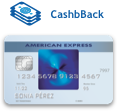
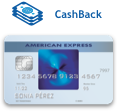
Corregido Typo en Casback

Changed region(s): [[0.0769, 0.0, 0.3846, 0.2432], [0.4359, 0.0811, 0.8974, 0.1622]]

diff --git a/src/pages/notificaciones/003.HTML b/src/pages/notificaciones/003.HTML
@@ -1,0 +1,207 @@
+<!DOCTYPE html PUBLIC "-//W3C//DTD XHTML 1.0 Strict//EN" "http://www.w3.org/TR/xhtml1/DTD/xhtml1-strict.dtd">
+<html xmlns="http://www.w3.org/1999/xhtml">
+  <head>
+    <meta http-equiv="Content-Type" content="text/html; charset=utf-8">
+    <meta name="viewport" content="width=device-width">
+    <style>
+@media only screen and (max-width:517.24138px) {
+  table[class="body"] img {
+    width: auto !important;
+    height: auto !important;
+  }
+  table[class="body"] center {
+    min-width: 0 !important;
+  }
+  table[class="body"] .container {
+    width: 95% !important;
+  }
+  table[class="body"] .row {
+    width: 100% !important;
+    display: block !important;
+  }
+  table[class="body"] .wrapper {
+    display: block !important;
+    padding-right: 0 !important;
+  }
+  table[class="body"] .columns,table[class="body"] .column {
+    table-layout: fixed !important;
+    float: none !important;
+    width: 100% !important;
+    padding-right: 0 !important;
+    padding-left: 0 !important;
+    display: block !important;
+  }
+  table[class="body"] .wrapper.first .columns,table[class="body"] .wrapper.first .column {
+    display: table !important;
+  }
+  table[class="body"] table.columns td,table[class="body"] table.column td {
+    width: 100% !important;
+  }
+  table[class="body"] .columns td.one,table[class="body"] .column td.one {
+    width: 8.33333% !important;
+  }
+  table[class="body"] .columns td.two,table[class="body"] .column td.two {
+    width: 16.66667% !important;
+  }
+  table[class="body"] .columns td.three,table[class="body"] .column td.three {
+    width: 25% !important;
+  }
+  table[class="body"] .columns td.four,table[class="body"] .column td.four {
+    width: 33.33333% !important;
+  }
+  table[class="body"] .columns td.five,table[class="body"] .column td.five {
+    width: 41.66667% !important;
+  }
+  table[class="body"] .columns td.six,table[class="body"] .column td.six {
+    width: 50% !important;
+  }
+  table[class="body"] .columns td.seven,table[class="body"] .column td.seven {
+    width: 58.33333% !important;
+  }
+  table[class="body"] .columns td.eight,table[class="body"] .column td.eight {
+    width: 66.66667% !important;
+  }
+  table[class="body"] .columns td.nine,table[class="body"] .column td.nine {
+    width: 75% !important;
+  }
+  table[class="body"] .columns td.ten,table[class="body"] .column td.ten {
+    width: 83.33333% !important;
+  }
+  table[class="body"] .columns td.eleven,table[class="body"] .column td.eleven {
+    width: 91.66667% !important;
+  }
+  table[class="body"] .columns td.twelve,table[class="body"] .column td.twelve {
+    width: 100% !important;
+  }
+  table[class="body"] td.offset-by-one,table[class="body"] td.offset-by-two,table[class="body"] td.offset-by-three,table[class="body"] td.offset-by-four,table[class="body"] td.offset-by-five,table[class="body"] td.offset-by-six,table[class="body"] td.offset-by-seven,table[class="body"] td.offset-by-eight,table[class="body"] td.offset-by-nine,table[class="body"] td.offset-by-ten,table[class="body"] td.offset-by-eleven {
+    padding-left: 0 !important;
+  }
+  table[class="body"] table.columns td.expander {
+    width: 1px !important;
+  }
+  table[class="body"] .right-text-pad,table[class="body"] .text-pad-right {
+    padding-left: 10px !important;
+  }
+  table[class="body"] .left-text-pad,table[class="body"] .text-pad-left {
+    padding-right: 10px !important;
+  }
+  table[class="body"] .hide-for-small,table[class="body"] .show-for-desktop {
+    display: none !important;
+  }
+  table[class="body"] .show-for-small,table[class="body"] .hide-for-desktop {
+    display: inherit !important;
+  }
+}
+</style>
+  </head>
+  <body style="-ms-text-size-adjust: 100%; -webkit-text-size-adjust: 100%; background: #F1F1F1; color: #222; font-family: Helvetica,Arial,sans-serif; font-size: 14px; font-weight: 400; line-height: 19px; margin: 0; min-width: 100%; padding: 0; text-align: left; width: 100%;">
+    <table class="body" style="border-collapse: collapse; border-spacing: 0; color: #222; font-family: Helvetica,Arial,sans-serif; font-size: 14px; font-weight: 400; height: 100%; line-height: 19px; margin: 0; padding: 0; text-align: left; vertical-align: top; width: 100%;">
+      <tr style="padding: 0; text-align: left; vertical-align: top;">
+        <td align="center" valign="top" class="center" style="-moz-hyphens: auto; -webkit-hyphens: auto; border-collapse: collapse; color: #222; font-family: Helvetica,Arial,sans-serif; font-size: 14px; font-weight: 400; hyphens: auto; line-height: 19px; margin: 0; padding: 0; text-align: center; vertical-align: top; word-break: break-word;">
+          <center style="min-width: 500px; width: 100%;">
+            <table class="row header" style="border-collapse: collapse; border-spacing: 0; padding: 0; position: relative; text-align: left; vertical-align: top; width: 100%;">
+              <tr style="padding: 0; text-align: left; vertical-align: top;">
+                <td align="center" class="center" style="-moz-hyphens: auto; -webkit-hyphens: auto; border-collapse: collapse; color: #222; font-family: Helvetica,Arial,sans-serif; font-size: 14px; font-weight: 400; hyphens: auto; line-height: 19px; margin: 0; padding: 0; text-align: center; vertical-align: top; word-break: break-word;">
+                  <center style="min-width: 500px; width: 100%;">
+                    <table class="container" style="border-collapse: collapse; border-spacing: 0; margin: 0 auto; padding: 0; text-align: inherit; vertical-align: top; width: 500px;">
+                      <tr style="padding: 0; text-align: left; vertical-align: top;">
+                        <td class="wrapper last" style="-moz-hyphens: auto; -webkit-hyphens: auto; border-collapse: collapse; color: #222; font-family: Helvetica,Arial,sans-serif; font-size: 14px; font-weight: 400; hyphens: auto; line-height: 19px; margin: 0; padding: 10px 20px 0 0; padding-right: 0; position: relative; text-align: left; vertical-align: top; word-break: break-word;">
+                          <table class="twelve columns" style="border-collapse: collapse; border-spacing: 0; margin: 0 auto; padding: 0; text-align: left; vertical-align: top; width: 500px;">
+                            <tr style="padding: 0; text-align: left; vertical-align: top;">
+                              <td class="subjectline" style="-moz-hyphens: auto; -webkit-hyphens: auto; border-collapse: collapse; color: #222; font-family: Helvetica,Arial,sans-serif; font-size: 14px; font-weight: 400; hyphens: auto; line-height: 19px; margin: 0; padding: 0 0 10px; padding-bottom: 3px; text-align: left; vertical-align: top; word-break: break-word;">
+                                <p style="color: #6D6E71; font-family: Helvetica,Arial,sans-serif; font-size: 10px; font-weight: 400; line-height: 19px; margin: 0; margin-bottom: 0; padding: 0; text-align: left;">Requerimos de su ayuda</p>
+                              </td>
+                            </tr>
+                          </table>
+                        </td>
+                      </tr>
+                    </table>
+                  </center>
+                </td>
+              </tr>
+            </table>
+            <table style="border-collapse: collapse; border-spacing: 0; padding: 0; text-align: left; vertical-align: top;"></table>
+            <!-- Email content-->
+            <table class="wrapper header" style="border-collapse: collapse; border-spacing: 0; padding: 0; text-align: left; vertical-align: top;">
+              <tbody>
+                <tr style="padding: 0; text-align: left; vertical-align: top;">
+                  <td class="wrapper-inner" style="-moz-hyphens: auto; -webkit-hyphens: auto; border-collapse: collapse; color: #222; font-family: Helvetica,Arial,sans-serif; font-size: 14px; font-weight: 400; hyphens: auto; line-height: 19px; margin: 0; padding: 0; text-align: left; vertical-align: top; word-break: break-word;">
+                    <!-- content start-->
+                    <table class="row headerbox" style="background: #394457; border-collapse: collapse; border-spacing: 0; padding: 0; position: relative; text-align: left; vertical-align: top; width: 100%;">
+                      <tr style="padding: 0; text-align: left; vertical-align: top;">
+                        <td style="-moz-hyphens: auto; -webkit-hyphens: auto; border-collapse: collapse; color: #222; font-family: Helvetica,Arial,sans-serif; font-size: 14px; font-weight: 400; hyphens: auto; line-height: 19px; margin: 0; padding: 40px; text-align: left; vertical-align: top; word-break: break-word;">
+                          <table class="twelve columns first last" style="border-collapse: collapse; border-spacing: 0; margin: 0 auto; padding: 0; text-align: left; vertical-align: top; width: 500px;">
+                            <tr style="padding: 0; text-align: left; vertical-align: top;">
+                              <th class="mainlogo" style="padding-bottom: 15px;">
+                                <p style="color: #fff; font-family: Helvetica,Arial,sans-serif; font-size: 14px; font-weight: 400; line-height: 19px; margin: 0; margin-bottom: 10px; padding: 0; text-align: left;"><img src="https://content.baccredomatic.com/es-cr/mailing/com/is16/logo-white-bg.png" alt="Bac Credomatic" style="-ms-interpolation-mode: bicubic; clear: both; display: block; float: left; max-width: 100%; outline: none; text-decoration: none; width: auto;"></p>
+                              </th>
+                            </tr>
+                            <tr style="padding: 0; text-align: left; vertical-align: top;">
+                              <th>
+                                <p class="saludo" style="color: #fff; font-family: Helvetica,Arial,sans-serif; font-size: 20px; font-weight: 400; line-height: 19px; margin: 0; margin-bottom: 5px; padding: 0; text-align: left;">Hola  [Opportunity.Key Contact First Name] [Opportunity.Key Contact Last Name]</p>
+                                <h1 style="color: #fff; font-family: Helvetica,Arial,sans-serif; font-size: 30px; font-weight: 400; line-height: 1.3; margin: 0; padding: 0; text-align: left; word-break: normal;">Requerimos de su ayuda</h1>
+                                <p class="oportunidad" style="color: #fff; font-family: Helvetica,Arial,sans-serif; font-size: 14px; font-weight: 400; line-height: 19px; margin: 0; margin-bottom: 10px; margin-top: 10px; padding: 0; text-align: left;">Número de solicitud: [Opportunity.Row Id]</p>
+                              </th>
+                              <th class="expander"></th>
+                            </tr>
+                          </table>
+                        </td>
+                      </tr>
+                    </table>
+                    <table class="row contentbox" style="background: #fff; border-bottom: solid 2px #9A877A; border-collapse: collapse; border-spacing: 0; padding: 0; position: relative; text-align: left; vertical-align: top; width: 100%;">
+                      <tr style="padding: 0; text-align: left; vertical-align: top;">
+                        <td style="-moz-hyphens: auto; -webkit-hyphens: auto; border-collapse: collapse; color: #222; font-family: Helvetica,Arial,sans-serif; font-size: 14px; font-weight: 400; hyphens: auto; line-height: 19px; margin: 0; padding: 0; text-align: left; vertical-align: top; word-break: break-word;">
+                          <table class="twelve columns" style="border-collapse: collapse; border-spacing: 0; margin: 0 auto; padding: 0; text-align: left; vertical-align: top; width: 500px;">
+                            <tr style="padding: 0; text-align: left; vertical-align: top;">
+                              <td class="mailbody" style="-moz-hyphens: auto; -webkit-hyphens: auto; border-collapse: collapse; color: #222; font-family: Helvetica,Arial,sans-serif; font-size: 14px; font-weight: 400; hyphens: auto; line-height: 19px; margin: 0; padding: 30px 0; text-align: left; vertical-align: top; word-break: break-word;">
+                                <p style="color: #222; font-family: Helvetica,Arial,sans-serif; font-size: 14px; font-weight: 400; line-height: 19px; margin: 0; margin-bottom: 10px; padding: 0; text-align: left;">Ya tenemos todos sus datos y estamos procesando su solicitud. Para poder continuar con el proceso, requerimos la siguiente información:
+                                  <ol>
+                                    <li>Imagen escaneada de su cédula por los 2 lados</li>
+                                    <li>Imagen escaneada de constancia de ingresos, según aplique:
+                                      <br/>• Si es asalariado, su orden patronal
+                                      <br/>• Si es independiente, CPA tramitado con los contadores autorizados por Credomatic, los cuales puede contactar por el siguiente medio:
+                                      <p><strong>GP CONTADORES PUBLICOS </strong>
+                                    <br/>Teléfono: 2244-7700 / Email: info@gpcontadorespublicos.com </p>
+                                        </li>
+                                    <li>Imprimir y llenar a mano los siguientes documentos <a href="https://www.baccredomatic.com/sites/default/files/carta_autorizacion_para_entrega_cic_persona_fisica_a_empresas_del_gfbac_com_cr.pdf" target="_blank" style="color: #2ba6cb; text-decoration: none;">CIC </a>y <a href="https://www.baccredomatic.com/sites/default/files/autorizacion_de_persona_fisica_para_entregar_informacion_crediticia_a_entidad_supervisada_cr.pdf" target="_blank" style="color: #2ba6cb; text-decoration: none;">Anexo F</a>.</li>
+                                    <li>Envíe todos los documentos mencionados ateriormente a <a href="mailto:pretamospersonales@credomatic.com" style="color: #2ba6cb; text-decoration: none;">pretamospersonales@credomatic.com</a></li>
+                                  </ol>
+                                </p>
+                                <p style="color: #222; font-family: Helvetica,Arial,sans-serif; font-size: 14px; font-weight: 400; line-height: 19px; margin: 0; margin-bottom: 10px; padding: 0; text-align: left;">Una vez que nos envíe toda esta información, continuaremos con el trámite y le informaremos del progreso.</p>
+                                <p style="color: #222; font-family: Helvetica,Arial,sans-serif; font-size: 14px; font-weight: 400; line-height: 19px; margin: 0; margin-bottom: 10px; padding: 0; text-align: left;">¡Muchas gracias por su preferencia!</p>
+                              </td>
+                            </tr>
+                            <tr style="padding: 0; text-align: left; vertical-align: top;">
+                              <td class="bodyfooter" style="-moz-hyphens: auto; -webkit-hyphens: auto; border-collapse: collapse; color: #222; font-family: Helvetica,Arial,sans-serif; font-size: 14px; font-weight: 400; hyphens: auto; line-height: 19px; margin: 0; margin-top: 40px; padding: 0 0 10px; text-align: left; vertical-align: top; word-break: break-word;">
+                                <hr style="background-color: #d9d9d9; border: none; color: #d9d9d9; height: 1px;">
+                                <p class="contacto" style="color: #6D6E71; font-family: Helvetica,Arial,sans-serif; font-size: 12px; font-weight: 400; line-height: 19px; margin: 0; margin-bottom: 10px; padding: 0; text-align: left;">¿Alguna consulta con respecto a nuestros productos? Escríbanos a <a href="mailto:pretamospersonales@credomatic.com" style="color: #2ba6cb; text-decoration: none;">pretamospersonales@credomatic.com</a></p>
+                              </td>
+                              <td class="expander" style="-moz-hyphens: auto; -webkit-hyphens: auto; border-collapse: collapse; color: #222; font-family: Helvetica,Arial,sans-serif; font-size: 14px; font-weight: 400; hyphens: auto; line-height: 19px; margin: 0; padding: 0; text-align: left; vertical-align: top; visibility: hidden; width: 0; word-break: break-word;"></td>
+                            </tr>
+                          </table>
+                        </td>
+                      </tr>
+                    </table>
+                  </td>
+                </tr>
+              </tbody>
+            </table>
+            <table class="row footer" style="border-collapse: collapse; border-spacing: 0; padding: 0; position: relative; text-align: left; vertical-align: top; width: 100%;">
+              <tr style="padding: 0; text-align: left; vertical-align: top;">
+                <td class="wrapper last" style="-moz-hyphens: auto; -webkit-hyphens: auto; border-collapse: collapse; color: #222; font-family: Helvetica,Arial,sans-serif; font-size: 14px; font-weight: 400; hyphens: auto; line-height: 19px; margin: 0; padding: 10px 20px 0 0; padding-right: 0; position: relative; text-align: left; vertical-align: top; word-break: break-word;">
+                  <table class="twelve columns" style="border-collapse: collapse; border-spacing: 0; margin: 0 auto; padding: 0; text-align: left; vertical-align: top; width: 500px;">
+                    <tr style="padding: 0; text-align: left; vertical-align: top;">
+                      <td style="-moz-hyphens: auto; -webkit-hyphens: auto; border-collapse: collapse; color: #222; font-family: Helvetica,Arial,sans-serif; font-size: 14px; font-weight: 400; hyphens: auto; line-height: 19px; margin: 0; padding: 0 0 10px; text-align: left; vertical-align: top; word-break: break-word;">
+                        <p style="color: #6D6E71; font-family: Helvetica,Arial,sans-serif; font-size: 12px; font-weight: 400; line-height: 19px; margin: 0; margin-bottom: 10px; padding: 0; text-align: left;"><img src="https://content.baccredomatic.com/es-cr/mailing/com/is16/footer-logo.png" alt="Bac Credomatic" style="-ms-interpolation-mode: bicubic; clear: both; display: block; float: left; max-width: 100%; outline: none; text-decoration: none; width: auto;"></p>
+                      </td>
+                    </tr>
+                  </table>
+                </td>
+              </tr>
+            </table>
+          </center>
+        </td>
+      </tr>
+    </table>
+  </body>
+</html>
